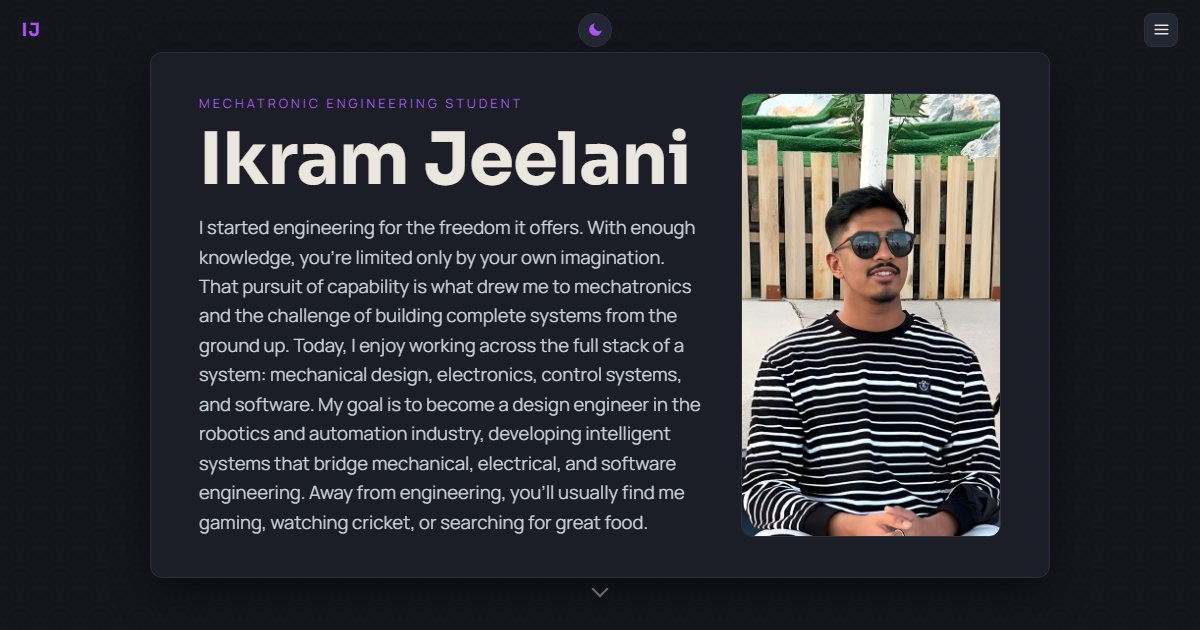
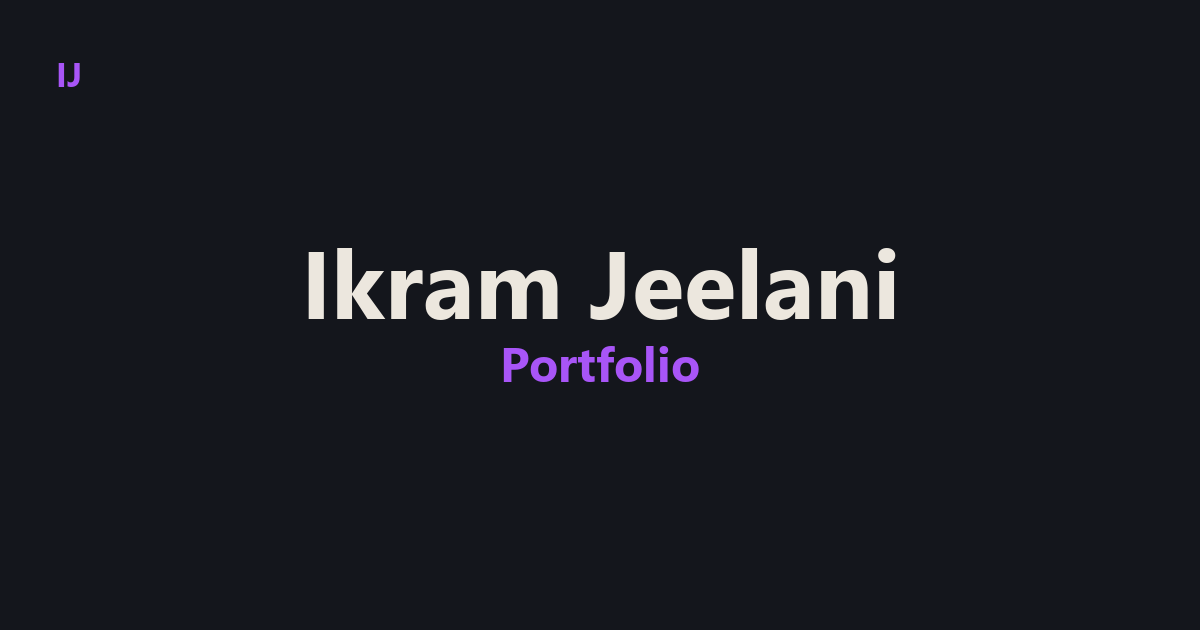
Simplify the share preview image, auto-list share links in data.js
- assets/og-image-{light,dark}.png replaced: were full hero screenshots
  (photo, bio, nav bar), now a plain "IJ" mark + "Ikram Jeelani /
  Portfolio" wordmark on the theme background. Generated by the new
  scripts/generate-og-images.py from PROFILE.name + styles.css's own
  color tokens, so it stays in sync by construction. Also much lighter
  (~14KB vs ~340KB each).
- generate-share-pages.py now also writes an auto-generated, clearly
  marked comment block into data.js listing every project's share/
  link, regenerated on every commit — no more digging through the
  share/ folder to find the link to paste when sharing a project.

diff --git a/data.js b/data.js
@@ -346,6 +346,18 @@ const EDUCATION = [
    ============================================================================ */
 const PROJECT_ORDER = ["model-winch-for-foundry", "dc-motor-speed-controller-using-8051-mcu"];
 
+/* ---- AUTO-GENERATED SHARE LINKS (scripts/generate-share-pages.py) ----
+   Paste these when sharing a project externally (LinkedIn, etc.) instead
+   of a direct project.html?id=... link, so the link preview shows the
+   right project instead of the homepage. Do not edit by hand — this block
+   is regenerated every commit from PROJECT_ORDER + each project's data.
+
+   Model Winch for Foundry:
+     https://ikramjeelani.github.io/portfolio/share/model-winch-for-foundry.html
+   DC Motor Speed Controller using 8051 MCU:
+     https://ikramjeelani.github.io/portfolio/share/dc-motor-speed-controller-using-8051-mcu.html
+---- END AUTO-GENERATED SHARE LINKS ---- */
+
 /* ---------- 7. CONTACTS ----------
    ADD a contact:    copy a { ... } line and edit it.
    REMOVE a contact:  delete its line.

diff --git a/scripts/generate-og-images.py b/scripts/generate-og-images.py
@@ -1,0 +1,92 @@
+#!/usr/bin/env python3
+"""
+Regenerates assets/og-image-light.png and assets/og-image-dark.png — the
+static images link-preview crawlers show for the homepage (and as
+project.html's fallback, for a shared project.html?id=... link).
+
+These used to be real screenshots of the homepage hero (photo, bio text,
+nav bar and all). Replaced with a plain wordmark — just the "IJ" mark plus
+"{PROFILE.name}" / "Portfolio" — on request, since the full hero screenshot
+was busier than a share card needs to be.
+
+Uses Segoe UI (Windows-bundled), the same fallback branding.js's
+buildFavicon() already uses instead of trying to load the site's real
+Sora/Manrope webfonts for a synthetically-generated asset.
+
+Colors are the exact --bg/--text/--accent hex values from styles.css'
+:root and :root[data-theme="light"] blocks — keep these two in sync by
+hand if the palette ever changes there.
+
+Safe to run manually: `python scripts/generate-og-images.py`.
+Not currently wired into the pre-commit hook — PROFILE.name changes are
+rare, and hand-running this once after such a change is simpler than
+adding a Pillow dependency to every commit.
+"""
+import re
+import sys
+from pathlib import Path
+
+ROOT = Path(__file__).resolve().parent.parent
+DATA_JS = ROOT / "data.js"
+W, H = 1200, 630
+FONT_DIR = Path(r"C:\Windows\Fonts")
+FONT_BOLD = FONT_DIR / "segoeuib.ttf"
+
+try:
+    from PIL import Image, ImageDraw, ImageFont
+except ImportError:
+    sys.exit("generate-og-images: Pillow is required (`pip install pillow`)")
+
+if not FONT_BOLD.exists():
+    sys.exit(f"generate-og-images: font not found at {FONT_BOLD}")
+
+THEMES = {
+    "dark": dict(bg="#14161c", text="#ece7de", accent="#a855f7", out="assets/og-image-dark.png"),
+    "light": dict(bg="#f6f3ec", text="#1d1a17", accent="#6d28d9", out="assets/og-image-light.png"),
+}
+
+
+def profile_name():
+    text = DATA_JS.read_text(encoding="utf-8")
+    m = re.search(r'name:\s*"([^"]+)"', text)
+    if not m:
+        sys.exit("generate-og-images: couldn't find PROFILE.name in data.js")
+    return m.group(1)
+
+
+def render(theme, name):
+    im = Image.new("RGB", (W, H), theme["bg"])
+    d = ImageDraw.Draw(im)
+
+    mark_font = ImageFont.truetype(str(FONT_BOLD), 34)
+    d.text((56, 50), "IJ", font=mark_font, fill=theme["accent"])
+
+    name_font = ImageFont.truetype(str(FONT_BOLD), 96)
+    sub_font = ImageFont.truetype(str(FONT_BOLD), 48)
+    sub_txt = "Portfolio"
+
+    nb = d.textbbox((0, 0), name, font=name_font)
+    nw, nh = nb[2] - nb[0], nb[3] - nb[1]
+    sb = d.textbbox((0, 0), sub_txt, font=sub_font)
+    sw, sh = sb[2] - sb[0], sb[3] - sb[1]
+
+    gap = 26
+    start_y = (H - (nh + gap + sh)) / 2
+
+    d.text(((W - nw) / 2 - nb[0], start_y - nb[1]), name, font=name_font, fill=theme["text"])
+    d.text(((W - sw) / 2 - sb[0], start_y + nh + gap - sb[1]), sub_txt, font=sub_font, fill=theme["accent"])
+
+    out_path = ROOT / theme["out"]
+    im.save(out_path)
+    return out_path
+
+
+def main():
+    name = profile_name()
+    for theme in THEMES.values():
+        path = render(theme, name)
+        print(f"generate-og-images: wrote {path.relative_to(ROOT)}")
+
+
+if __name__ == "__main__":
+    main()

diff --git a/scripts/generate-share-pages.py b/scripts/generate-share-pages.py
@@ -141,12 +141,55 @@ def build_page(project_id, title, image_rel, name):
     )
 
 
+SHARE_LINKS_START = "/* ---- AUTO-GENERATED SHARE LINKS (scripts/generate-share-pages.py) ----"
+SHARE_LINKS_END = "---- END AUTO-GENERATED SHARE LINKS ---- */"
+
+
+def update_data_js_block(titles_by_id):
+    """Insert/replace a marked, auto-generated comment block right after
+    PROJECT_ORDER in data.js, listing every project's share link. Paste
+    THESE links (not a direct project.html?id=... one) when sharing a
+    project externally — see scripts/generate-share-pages.py's own
+    docstring for why. Re-running this script always regenerates the block
+    between its markers in place; nothing here is meant to be hand-edited."""
+    text = read(DATA_JS)
+    lines = [SHARE_LINKS_START]
+    lines.append("   Paste these when sharing a project externally (LinkedIn, etc.) instead")
+    lines.append("   of a direct project.html?id=... link, so the link preview shows the")
+    lines.append("   right project instead of the homepage. Do not edit by hand — this block")
+    lines.append("   is regenerated every commit from PROJECT_ORDER + each project's data.")
+    lines.append("")
+    for project_id, title in titles_by_id.items():
+        lines.append(f"   {title}:")
+        lines.append(f"     {SITE_URL}/share/{project_id}.html")
+    lines.append(SHARE_LINKS_END)
+    block = "\n".join(lines) + "\n"
+
+    pattern = re.compile(
+        re.escape(SHARE_LINKS_START) + r".*?" + re.escape(SHARE_LINKS_END) + r"\n?", re.S
+    )
+    if pattern.search(text):
+        new_text = pattern.sub(block, text)
+    else:
+        marker = re.search(r'const PROJECT_ORDER\s*=\s*\[.*?\];\n', text, re.S)
+        if not marker:
+            print("generate-share-pages: couldn't find PROJECT_ORDER in data.js, skipping block insert")
+            return
+        insert_at = marker.end()
+        new_text = text[:insert_at] + "\n" + block + text[insert_at:]
+
+    if new_text != text:
+        DATA_JS.write_text(new_text, encoding="utf-8", newline="\n")
+        print("generate-share-pages: updated share-link block in data.js")
+
+
 def main():
     name = profile_name()
     ids = project_order()
     SHARE_DIR.mkdir(exist_ok=True)
 
     generated = []
+    titles_by_id = {}
     for project_id in ids:
         pd_file = find_project_data_file(project_id)
         if not pd_file:
@@ -158,6 +201,7 @@ def main():
         if not title or not image_rel:
             print(f"generate-share-pages: '{project_id}' missing title/image, skipping")
             continue
+        titles_by_id[project_id] = title
 
         page = build_page(project_id, title, image_rel, name)
         out_path = SHARE_DIR / f"{project_id}.html"
@@ -170,6 +214,8 @@ def main():
         if f.stem not in ids:
             f.unlink()
             print(f"generate-share-pages: removed stale {f.relative_to(ROOT)}")
+
+    update_data_js_block(titles_by_id)
 
     if generated:
         print("generate-share-pages: wrote " + ", ".join(str(p.relative_to(ROOT)) for p in generated))
